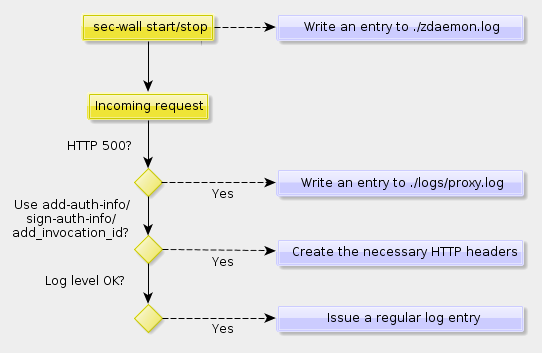
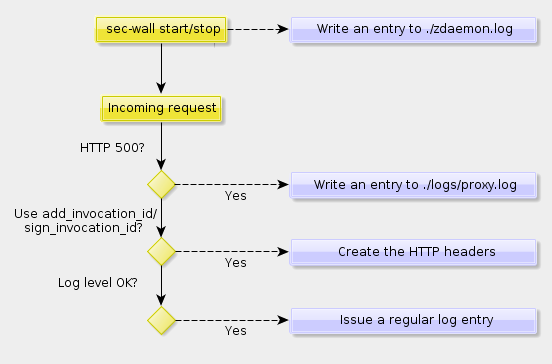
Added docs for HTTP logging headers.

Changed region(s): [[0.0295, 0.0312, 1.0, 0.966], [0.5609, 0.0312, 1.0, 0.1246]]

diff --git a/docs/site/hyde-src/content/documentation/ref-docs/logging.html b/docs/site/hyde-src/content/documentation/ref-docs/logging.html
@@ -14,7 +14,20 @@
 {% endblock %}
 
 {% block this_page %}
-    <li>123
+    <li><a href="#intro">Introduction</a></li>
+    <li><a href="#http-headers">HTTP headers</a>
+        <ol>
+            <li><a href="#http-headers-default">Default configuration</a></li>
+            <li><a href="#http-headers-configure">Configuring HTTP headers</a></li>
+            <li><a href="#http-headers-format">The headers format</a></li>
+        </ol>
+    </li>
+    <li><a href="#log-entries">Log entries</a>
+        <ol>
+            <li><a href="#log-entries-default">Default configuration</a></li>
+            <li><a href="#log-entries-configure">Configuring log entries</a></li>
+            <li><a href="#log-entries-format">The log entry format</a></li>
+        </ol>
     </li>
     <li><a href="#exercises">Exercises</a></li>
 {% endblock %}
@@ -53,22 +66,75 @@ An unhandled error while processing an incoming client requests is always wrappe
 in an HTTP 500 error and any information that might aid with resolving
 the issue is being written to the ./logs/proxy.log file.
 
-If config.py or a given URL config say that
-[add-auth-info](/documentation/ref-docs/sec-config.html#option-add-auth-info),
-[sign-auth-info](/documentation/ref-docs/sec-config.html#option-sign-auth-info)
-or
+If config.py says that
 [add_invocation_id](/documentation/ref-docs/config-file.html#add_invocation_id)
+and
+[sign_invocation_id](/documentation/ref-docs/config-file.html#sign_invocation_id)
 are in effect, the necessary HTTP headers are created. Their format is documented
-in
-[a separate section](/ZZZ).
+in [a separate section](#http-headers).
 
-The regular log entries are being written to syslog by default and their format
+The regular log entries are being written to
+[syslog by default](#configuring-the-logger)
+and their format
 is documented
 in
 [a separate section](/ZZZ).
-Whether they're written at all though depends on the log level configured.
+Whether they're written at all though depends on
+[the log level configured](/documentation/ref-docs/config-file.html#log_level).
 They're emitted on either INFO or ERROR level so if you change the log level to,
 say, CRITICAL, you'll never have any regular log messages written to the logs.
+
+<h2 id="http-headers">HTTP headers</h2>
+<h4 id="http-headers-default">Default configuration</h4>
+The default configuration is governed by the config.py-wide variables:
+<a href="/documentation/ref-docs/config-file.html#add_invocation_id">add_invocation_id</a>
+and
+<a href="/documentation/ref-docs/config-file.html#sign_invocation_id">sign_invocation_id</a>.
+<br/>
+<br/>
+
+<h4 id="http-headers-configure">Configuring HTTP headers</h4>
+
+Visit the sections about
+<a href="/documentation/ref-docs/config-file.html#add_invocation_id">add_invocation_id</a>
+and
+<a href="/documentation/ref-docs/config-file.html#sign_invocation_id">sign_invocation_id</a>
+variables for information on how to influence when the invocation ID-related headers
+are being added.
+<br/>
+<br/>
+
+<h4 id="http-headers-format">The headers format</h4>
+
+An invocation ID is a string that uniquely identifies the given exchange of data
+between a client application and a sec-wall instance. As long as
+<a href="/documentation/ref-docs/config-file.html#INSTANCE_UNIQUE">the INSTANCE_UNIQUE variable</a>
+actually stays unique, the ID will be unique.
+<br/><br/>
+
+The exact formula for creating the <b>X-sec-wall-invocation-id</b> HTTP header is:
+<br/><br/>
+
+separator = '/'
+<br/>
+msg_number = msg_counter.next()
+<br/>
+invocation_id = <a href="/documentation/ref-docs/config-file.html#instance_name">instance_name</a>
+    + separator + <a href="/documentation/ref-docs/config-file.html#INSTANCE_UNIQUE">INSTANCE_UNIQUE</a> + separator + msg_number
+
+<br/><br/>
+
+where <i>msg_counter</i> is an
+<a href="http://docs.python.org/library/itertools.html#itertools.count">itertools.count</a>
+<img src="/media/gfx/external-link.png" alt="" /> instance, starting with 1,
+recycled on each sec-wall's restart.
+
+<br/><br/>
+
+<h2 id="log-entries">Log entries</h2>
+<h4 id="log-entries-default">Default configuration</h4>
+<h4 id="log-entries-configure">Configuring log entries</h4>
+<h4 id="log-entries-format">The log entry format</h4>
 
 <h2 id="examples">Examples</h2>
 

diff --git a/docs/site/hyde-src/content/documentation/ref-docs/config-file.html b/docs/site/hyde-src/content/documentation/ref-docs/config-file.html
@@ -354,7 +354,7 @@ according to the suggestions, the header's value uniquely identifies the given r
 for instance, in reconcilliation processes, when backend and client applications
 are at odds over who sent what and when. Note that the value may be also cryptographically signed off
 if [sign_invocation_id](#sign_invocation_id) is True. Refer to
-[the logging documentation](/ZZZ)
+[the logging documentation](/documentation/ref-docs/logging.html#http-headers-format)
 for more details regarding the header's format.
 
 See also: [INSTANCE_UNIQUE](#INSTANCE_UNIQUE) and [sign_invocation_id](#sign_invocation_id).
